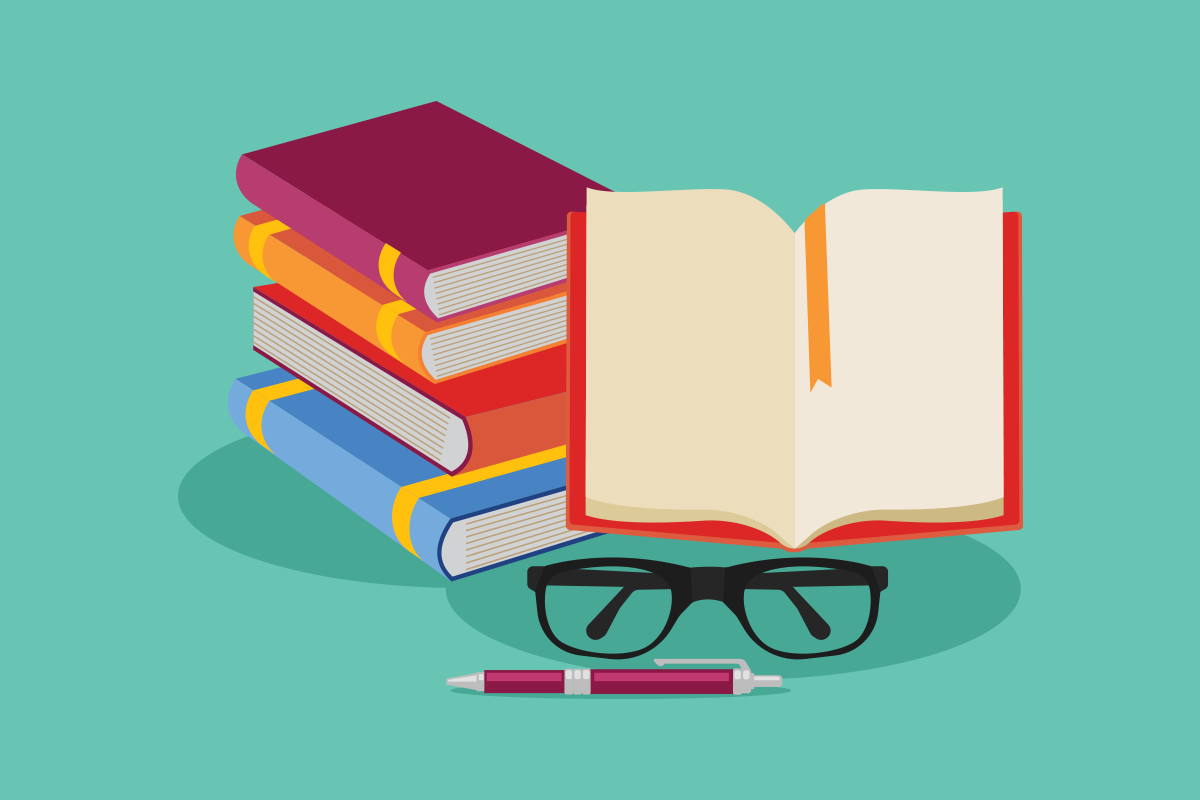
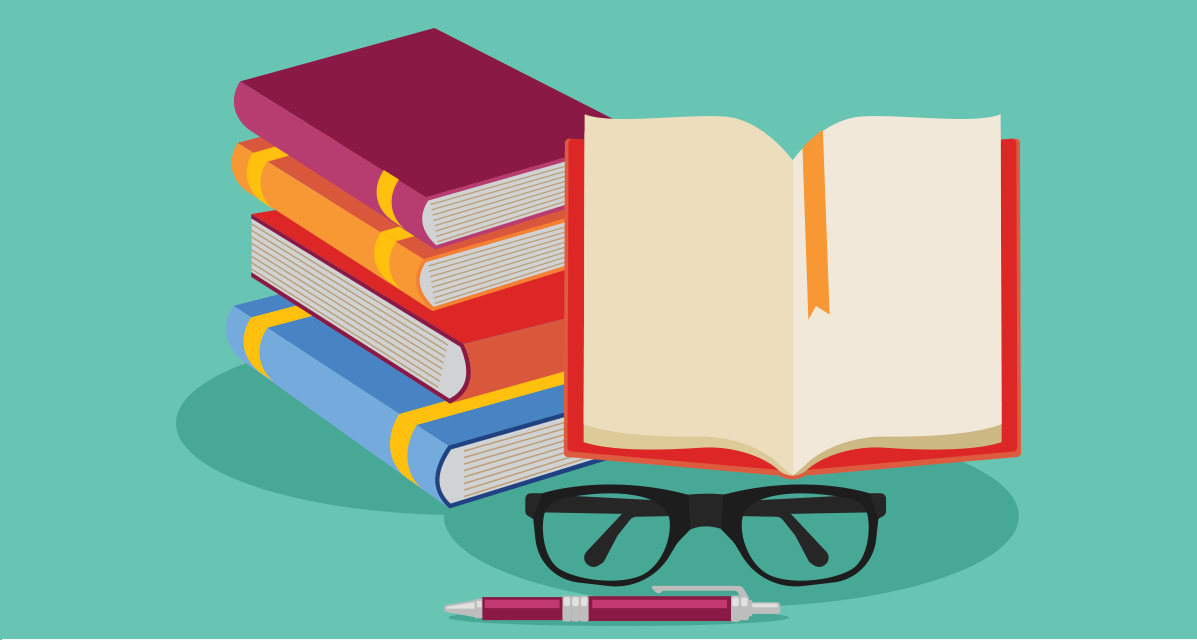
estrutura do site

Changed region(s): [[0.1236, 0.0312, 0.8655, 1.0], [0.8346, 0.4375, 0.8655, 0.5625], [0.4637, 0.4688, 0.4946, 0.5]]

diff --git a/index.html b/index.html
@@ -9,14 +9,27 @@
 	<link rel="shortcut icon" href="favicon.ico" type="image/x-icon">	
 </head>
 <body>
-	<h1>Alô Mundo!!</h1>
-	<img src="img/bannerlivro.png" alt="banner contendo imagens de livros aleatórios">
-	<h1>Oi</h1>
-	<p>ddd</p>
-	<p>ddd</p>
-	<p>ffff	
-	</p>
-
-	
+	<!--Header irá representar o logo e o menu do site -->
+	<header>
+		<div class="logo">
+			<p>Logo</p>
+		</div>
+		<nav>
+			<p>Menu</p>
+		</nav>		
+	</header>
+	<figure>
+		<img class="banner" src="img/bannerlivro.png" alt="banner contendo imagens de livros aleatórios">
+	</figure>
+	<div class="container">
+		<h1>Alô Mundo!!</h1>	
+		<h1>Oi</h1>
+		<p>ddd</p>
+		<p>ddd</p>
+		<p>ffff</p>
+	</div>
+	<footer>
+		<p>Desenvolvido por Cíntia Pinho</p>
+	</footer>	
 </body>
 </html>

diff --git a/css/style.css b/css/style.css
@@ -5,3 +5,36 @@ h1{
     color: #fff;
     text-align: center;
 }
+
+header{
+    width: 100%;
+    background-color: darkgrey;
+}
+
+.logo{
+    text-align: center;
+    color: #fff;
+    font-size: 1.5em;
+}
+
+nav{
+    text-align: center;
+    color: #fff;
+    font-size: 1.5em;
+}
+
+.banner{
+    width: 100%;
+    height: 100%;
+}
+
+.container{
+    background-color: darkgrey;
+    width: 80%;
+    margin: auto;    
+}
+
+footer{
+    background-color: darkgrey;
+    width: 100%;
+}
